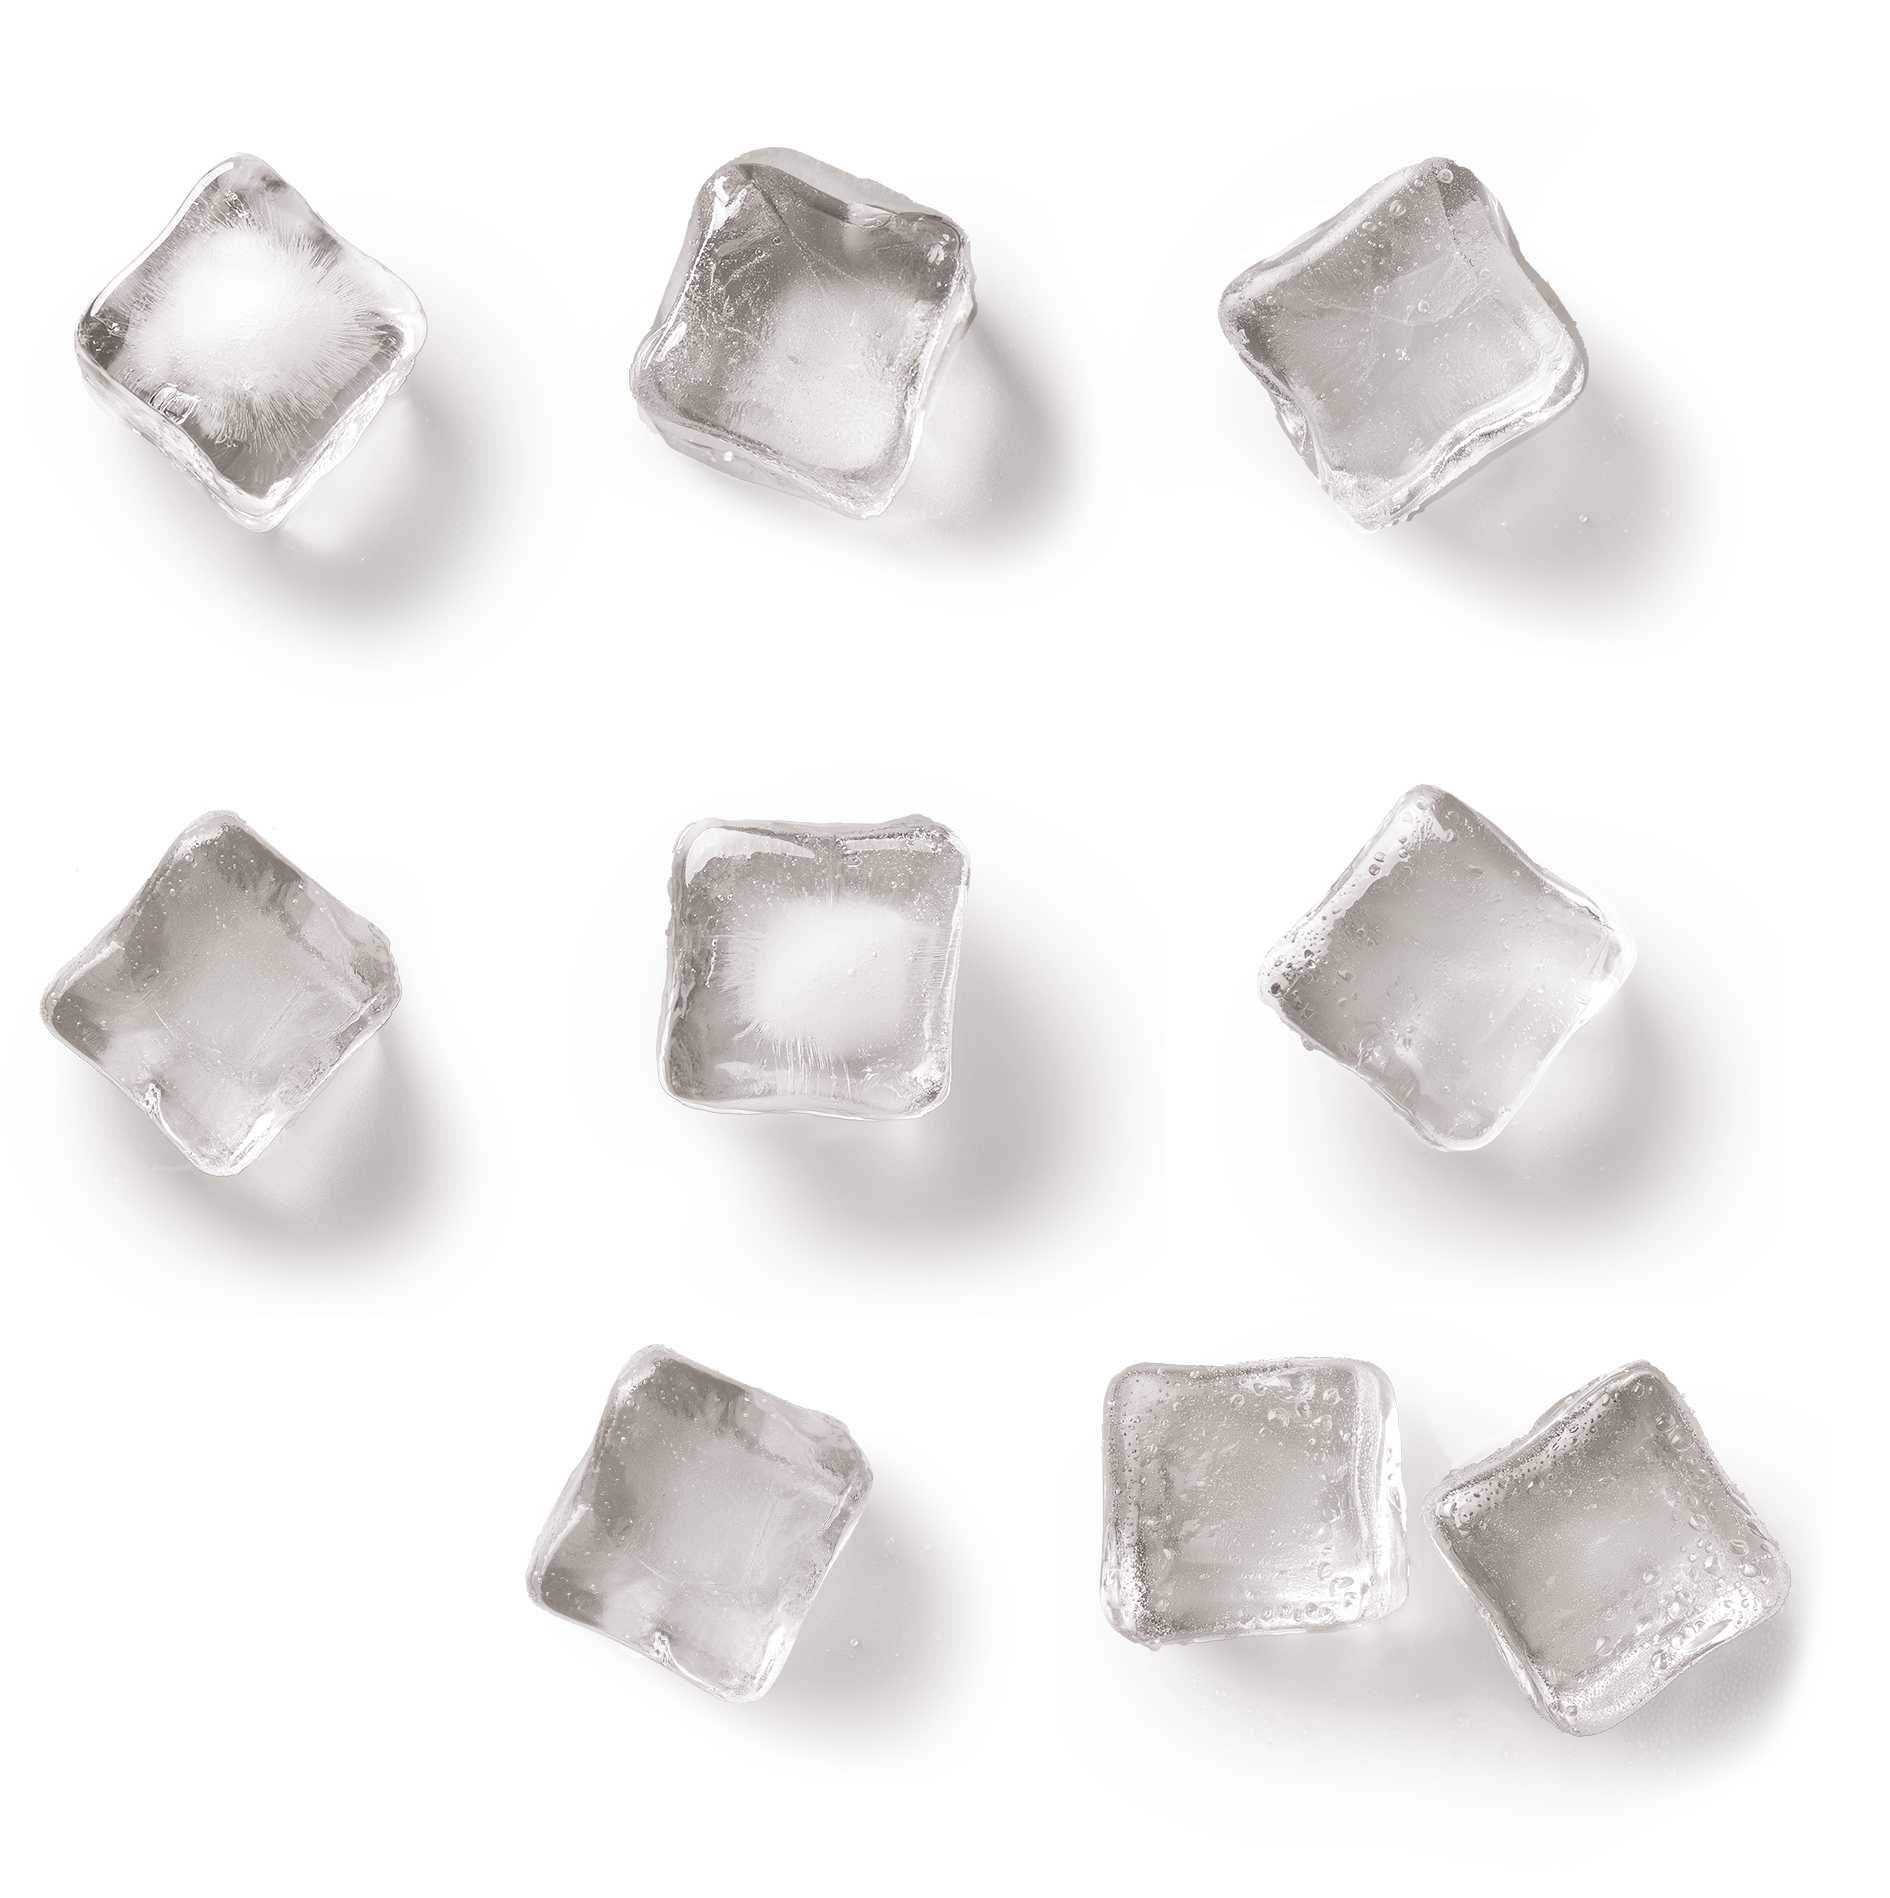
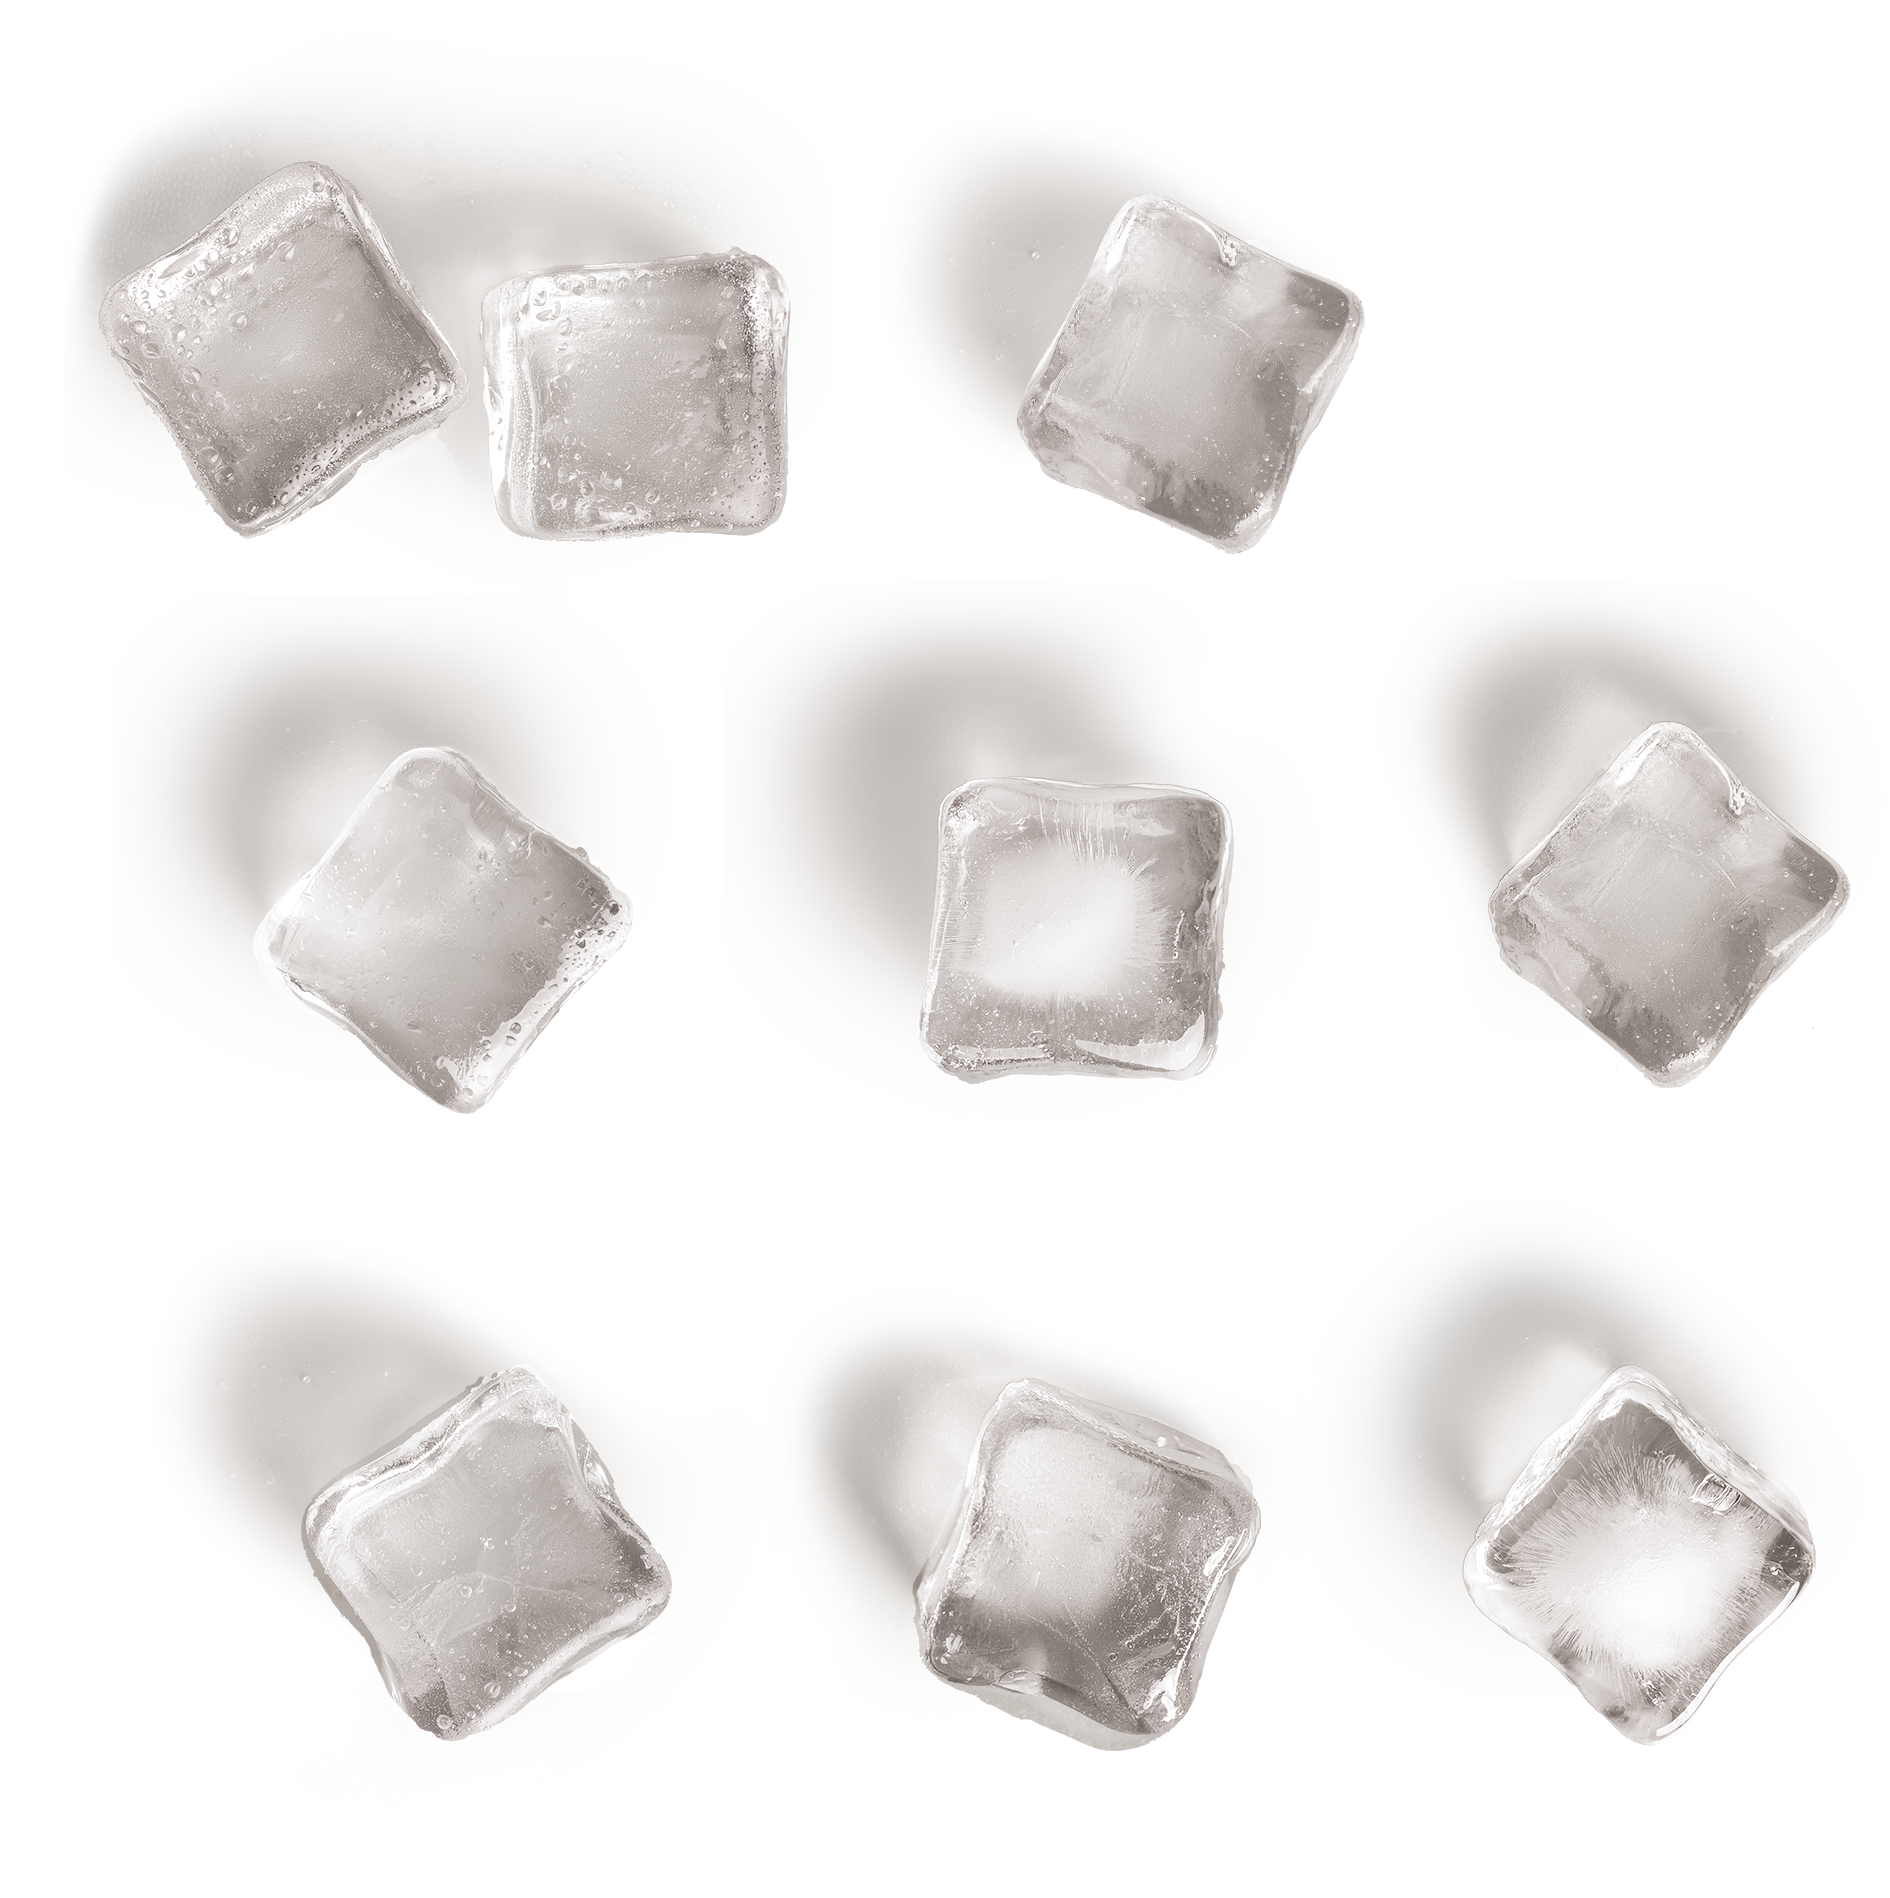
work on faq background

diff --git a/src/pages/FAQ/FAQPage.css b/src/pages/FAQ/FAQPage.css
@@ -8,7 +8,7 @@
 .faq-header {
   text-align: center;
   margin-bottom: 3rem;
-  background-image: url("/src/assets/images/backgrounds/ice-isolated-2.png");
+  background-image: url("/src/assets/images/backgrounds/ice-isolated-3.png");
   background-size: cover;
   padding: 5rem 0;
 }
@@ -18,6 +18,7 @@
   color: var(--off-black);
   text-align: center;
   text-shadow: 1px 1px 2px rgba(0, 0, 0, 0.2);
+  z-index: -1;
 }
 
 /* FAQ List Styling */
